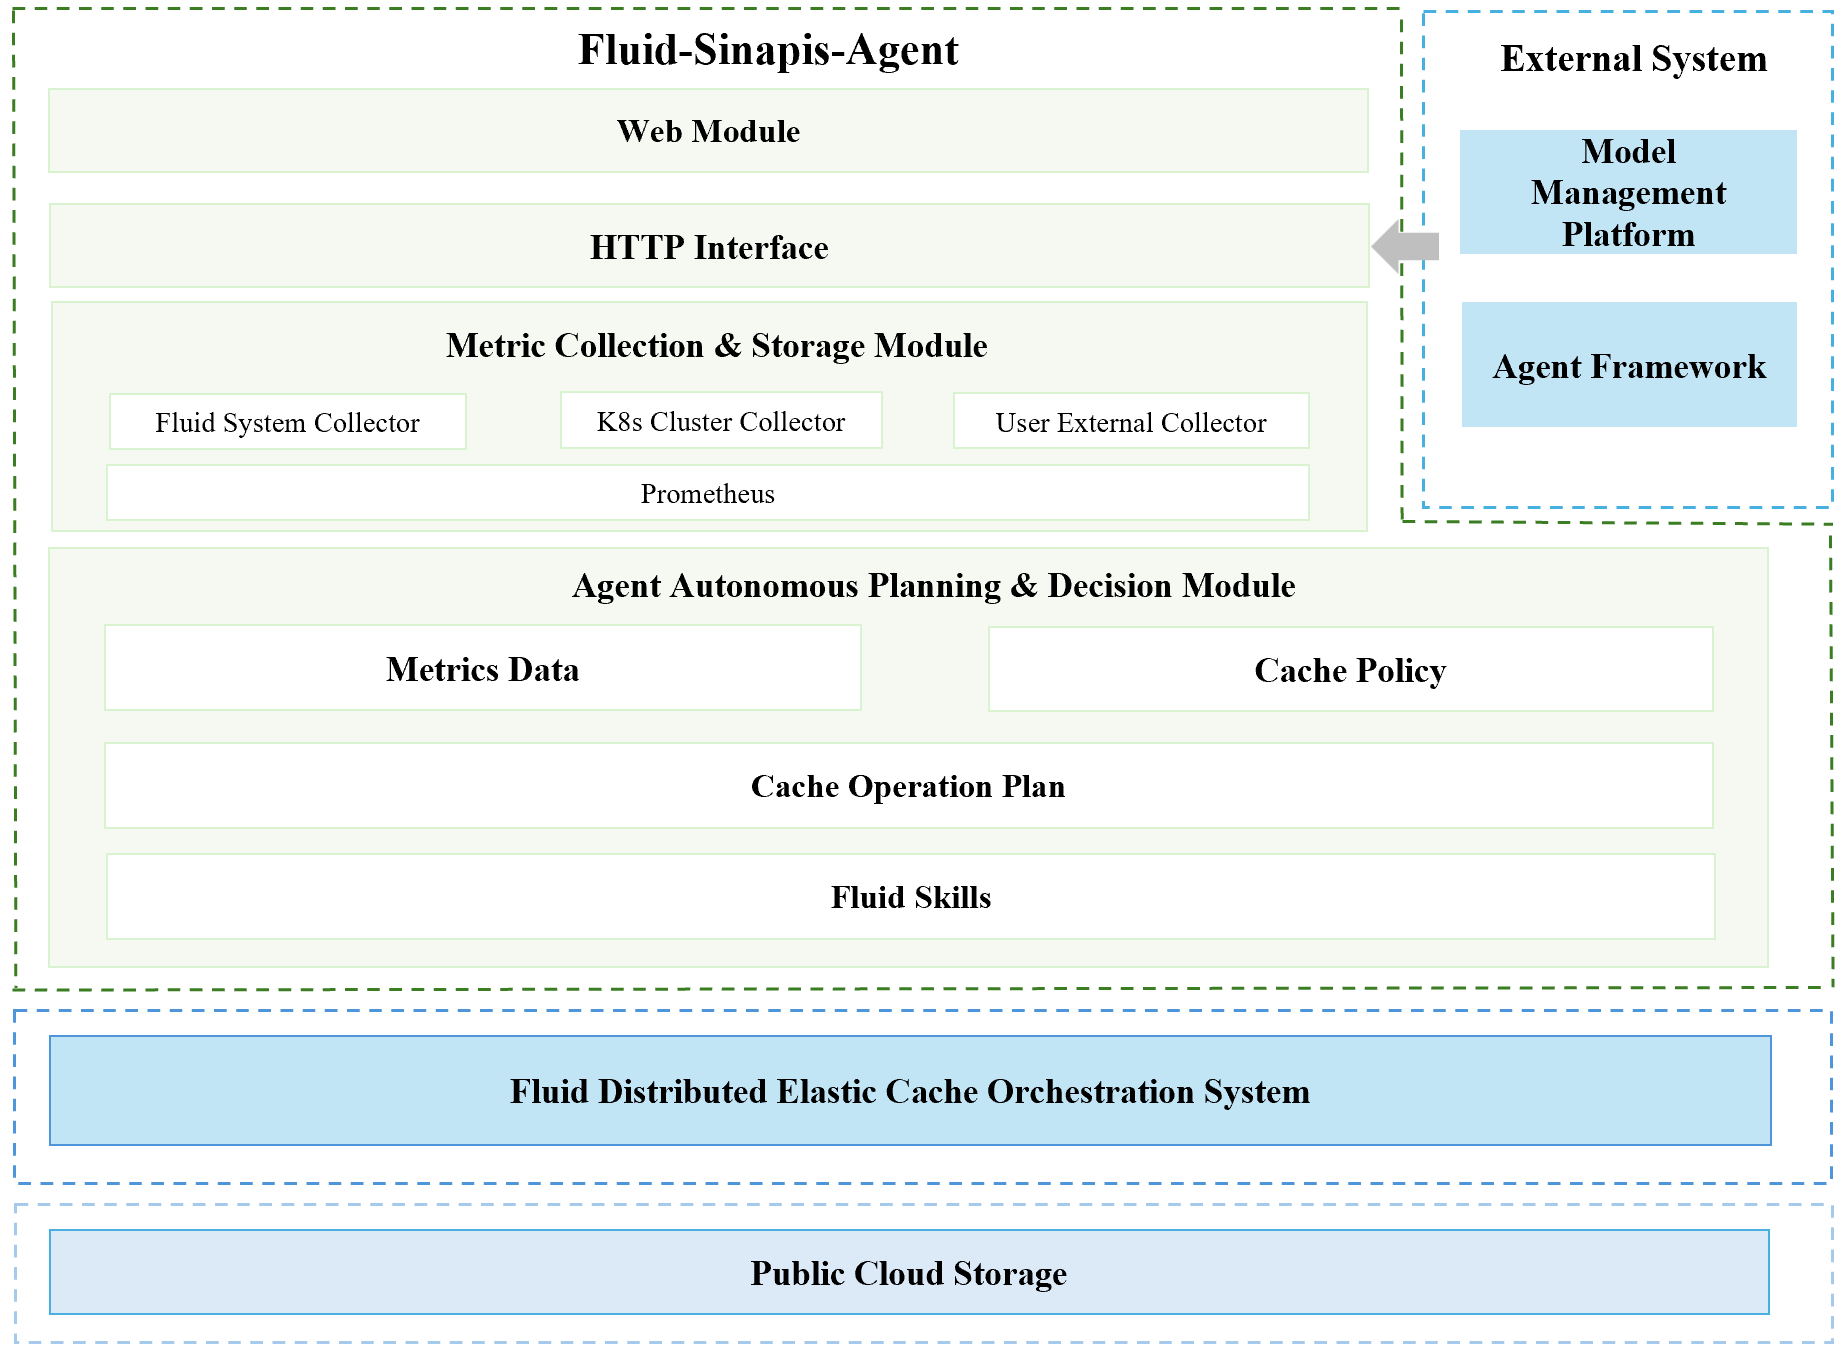
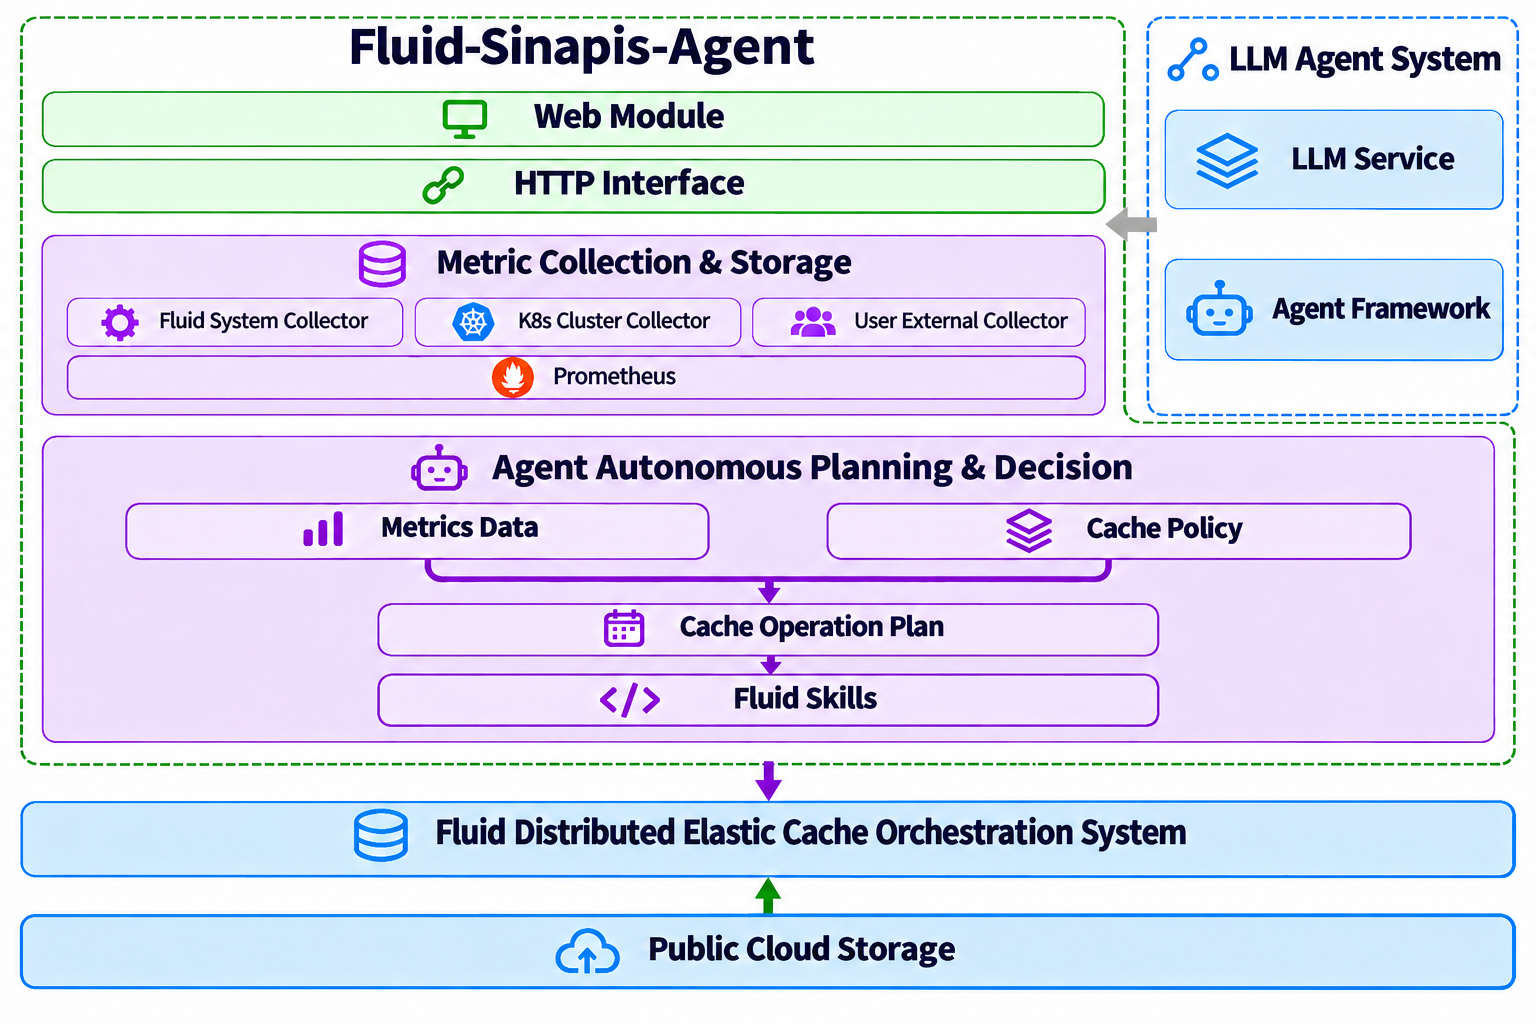
fix: update HTTP API Key
- web_controller: bind 0.0.0.0 by default so a reverse proxy on another
  host can reach the API; the SINAPIS_API_KEY check is the gate, not the
  bind address.
- bin/_lib.sh: align WEB_HOST default to 0.0.0.0; fix the backend
  pre-start check ordering (case matches the first pattern); poll the
  freshly started process instead of a bare sleep 1 so a config error is
  reported as a failed start; verify the frontend dev server actually
  owns FRONTEND_PORT (vite port drift); kill the whole process tree on
  stop so npm-spawned node servers do not leak.
- agent/workflow: harden the decision loop (+ tests).
- README (en/zh): reword the external-push feature description.
- static/architecture*.png: updated diagrams (user-provided).

238 passed, ruff clean.

diff --git a/server/agent/workflow.py b/server/agent/workflow.py
@@ -11,6 +11,7 @@ The executor is deterministic code: each approved step maps to its catalogue too
 
 import json
 import logging
+import re
 import subprocess
 import sys
 import time
@@ -71,25 +72,80 @@ def _collect_observations(tools: Sequence[Any]) -> list[dict[str, Any]]:
     return observations
 
 
-def _structured(model: BaseChatModel, schema, messages: list, stage: str):
+_TOOL_CALL_REMINDER = (
+    "Your previous reply was plain text. Call the required tool again and return "
+    "the complete structured arguments as its parameters; do not answer in prose."
+)
+_JSON_FENCE = re.compile(r"```(?:json)?\s*(\{.*?\})\s*```", re.DOTALL)
+
+
+def _message_text(message: Any) -> str:
+    """Flatten message content into plain text (a string or a list of parts)."""
+    content = getattr(message, "content", "")
+    if isinstance(content, str):
+        return content
+    return "".join(
+        part.get("text", "") if isinstance(part, dict) else str(part) for part in content
+    )
+
+
+def _json_object_in_text(text: str) -> str | None:
+    """Extract the outermost JSON object from a prose answer, if it contains one."""
+    if not text:
+        return None
+    fenced = _JSON_FENCE.search(text)
+    candidate = fenced.group(1) if fenced else text
+    start, end = candidate.find("{"), candidate.rfind("}")
+    if start < 0 or end <= start:
+        return None
+    return candidate[start : end + 1]
+
+
+def _structured(model: BaseChatModel, schema, messages: list, stage: str, *, attempts: int = 2):
     """Bind the schema as the only tool, then parse its tool call into the schema.
 
-    None means the model returned no structured call for this schema; the caller
-    raises for the stage.
+    Even at temperature 0 the model occasionally answers in prose instead of
+    emitting the tool call (llm.log: every failed planner round has non-empty
+    content, every successful one is a bare tool call). Before giving up:
+    - read a JSON object out of the prose and validate it against the schema;
+    - retry once with an explicit tool-call reminder appended to the thread.
+    None means every attempt failed; the prose is logged so the failure is
+    attributable from the stage log alone.
     """
-    message = model.bind_tools([schema]).invoke(messages)
-    calls = getattr(message, "tool_calls", None) or []
-    call = next((c for c in calls if c.get("name") == schema.__name__), None)
-    if call is None:
-        return None
-    try:
-        return schema.model_validate(call["args"])
-    except Exception as exc:
-        raise StructuredOutputValidationError(
-            f"{stage} returned an invalid {schema.__name__}: {exc}",
-            source=schema.__name__,
-            ai_message=message,
-        ) from exc
+    base = list(messages)
+    for attempt in range(1, attempts + 1):
+        message = model.bind_tools([schema]).invoke(
+            base if attempt == 1 else [*base, HumanMessage(content=_TOOL_CALL_REMINDER)]
+        )
+        calls = getattr(message, "tool_calls", None) or []
+        call = next((c for c in calls if c.get("name") == schema.__name__), None)
+        if call is not None:
+            try:
+                return schema.model_validate(call["args"])
+            except Exception as exc:
+                raise StructuredOutputValidationError(
+                    f"{stage} returned an invalid {schema.__name__}: {exc}",
+                    source=schema.__name__,
+                    ai_message=message,
+                ) from exc
+        prose = _message_text(message).strip()
+        raw = _json_object_in_text(prose)
+        if raw:
+            try:
+                parsed = schema.model_validate_json(raw)
+                logger.warning(
+                    "[%s] attempt %d/%d: no %s tool call, recovered the structured "
+                    "output from the message text",
+                    stage, attempt, attempts, schema.__name__,
+                )
+                return parsed
+            except Exception:
+                pass
+        logger.warning(
+            "[%s] attempt %d/%d: no %s tool call, prose answer (%d chars): %.400s",
+            stage, attempt, attempts, schema.__name__, len(prose), prose,
+        )
+    return None
 
 
 def _compact_observation(entry: dict[str, Any]) -> dict[str, Any]:

diff --git a/tests/agent/workflow/test_agents.py b/tests/agent/workflow/test_agents.py
@@ -251,14 +251,55 @@ def test_invalid_review_is_not_repaired_or_accepted(model_factory, decision, rev
 @pytest.mark.parametrize("stage", ["planner", "validator"])
 def test_plain_text_result_reports_the_stage_and_is_not_accepted(model_factory, decision, stage):
     # Some compatible APIs return plain text despite the required tool choice.
+    # Prose without any JSON object cannot be salvaged; after the single retry
+    # the round is rejected.
     plain_text = AIMessage(content="The plan looks reasonable.")
-    responses = [plain_text] if stage == "planner" else [("Decision", decision), plain_text]
+    responses = (
+        [plain_text, plain_text]
+        if stage == "planner"
+        else [("Decision", decision), plain_text, plain_text]
+    )
     model = model_factory(*responses)
 
     with pytest.raises(ValueError, match=f"{stage} did not return a structured"):
         AgentWorkflow(model).run("Prepare the dataset")
 
     assert len(model.requests) == len(responses)
+
+
+def test_prose_with_a_json_decision_is_recovered_without_retry(model_factory, decision):
+    # The observed failure mode: the model wraps its decision in prose (with or
+    # without a fence) instead of emitting the tool call. The JSON object is
+    # validated against the schema and the round proceeds on that single call.
+    prose = AIMessage(
+        content="Cache is idle and the hot files were just written.\n"
+        + f"```json\n{json.dumps(decision)}\n```"
+    )
+    model = model_factory(prose, ("PlanValidation", {"approved": True, "reason": "ok"}))
+
+    result = AgentWorkflow(model).run("Prepare the dataset")
+
+    assert result.decision.status == "action"
+    assert len(result.decision.steps) == 2
+    assert len(model.requests) == 2  # planner + validator, no retry
+
+
+def test_prose_without_json_is_retried_once_with_a_reminder(model_factory, decision):
+    prose = AIMessage(content="The cache is nearly empty; expanding looks wise.")
+    model = model_factory(
+        prose,
+        ("Decision", decision),
+        ("PlanValidation", {"approved": True, "reason": "ok"}),
+    )
+
+    result = AgentWorkflow(model).run("Prepare the dataset")
+
+    assert result.decision.status == "action"
+    assert len(model.requests) == 3  # prose, reminded retry, validator
+    reminder = model.requests[1][-1].content
+    assert "Call the required tool again" in reminder
+    # The original planner thread is preserved ahead of the reminder
+    assert model.requests[1][:-1] == model.requests[0]
 
 
 @pytest.mark.parametrize("failing_stage", ["planner", "validator"])

diff --git a/server/controller/web_controller.py b/server/controller/web_controller.py
@@ -197,7 +197,10 @@ class WebSettings:
     (resolution lives in server/config.py).
     """
 
-    host: str = "127.0.0.1"
+    # All interfaces, matching bin/_lib.sh: a reverse proxy on another host must
+    # be able to reach this API, and the key check (from_env) is the gate that
+    # keeps an unauthenticated instance off the network.
+    host: str = "0.0.0.0"
     port: int = 8000
     # Cluster targeting shares its source with run_collectors.py (the target section
     # of config.yml).

diff --git a/README.md b/README.md
@@ -24,7 +24,7 @@ Fluid already has complete elastic capabilities, but the "switches" of these cap
 
   Pluggable collector classes pull Fluid native metrics and the K8s Metrics API (pod/node resources), unified as Prometheus metrics for storage; a new collector is a class registered in `server/collectors/run_collectors.py`. External business traffic data needs no core change: it is declared in the `user_system` section of `config.yml` and pushed over HTTP
 
-- __External user-system data ingestion (passive push)__
+- __LLM agent system data ingestion (passive push)__
 
   Data that cannot be pulled actively is POSTed by the user system, validated server-side, and written into Prometheus. **The `user_system` section of `server/config.yml` hot-reloads without a restart** (detected by file mtime, effective within about 1 second); every other section requires a restart. detail: [custom-strategies-and-metrics](docs/en/custom-strategies-and-metrics.md):
 
